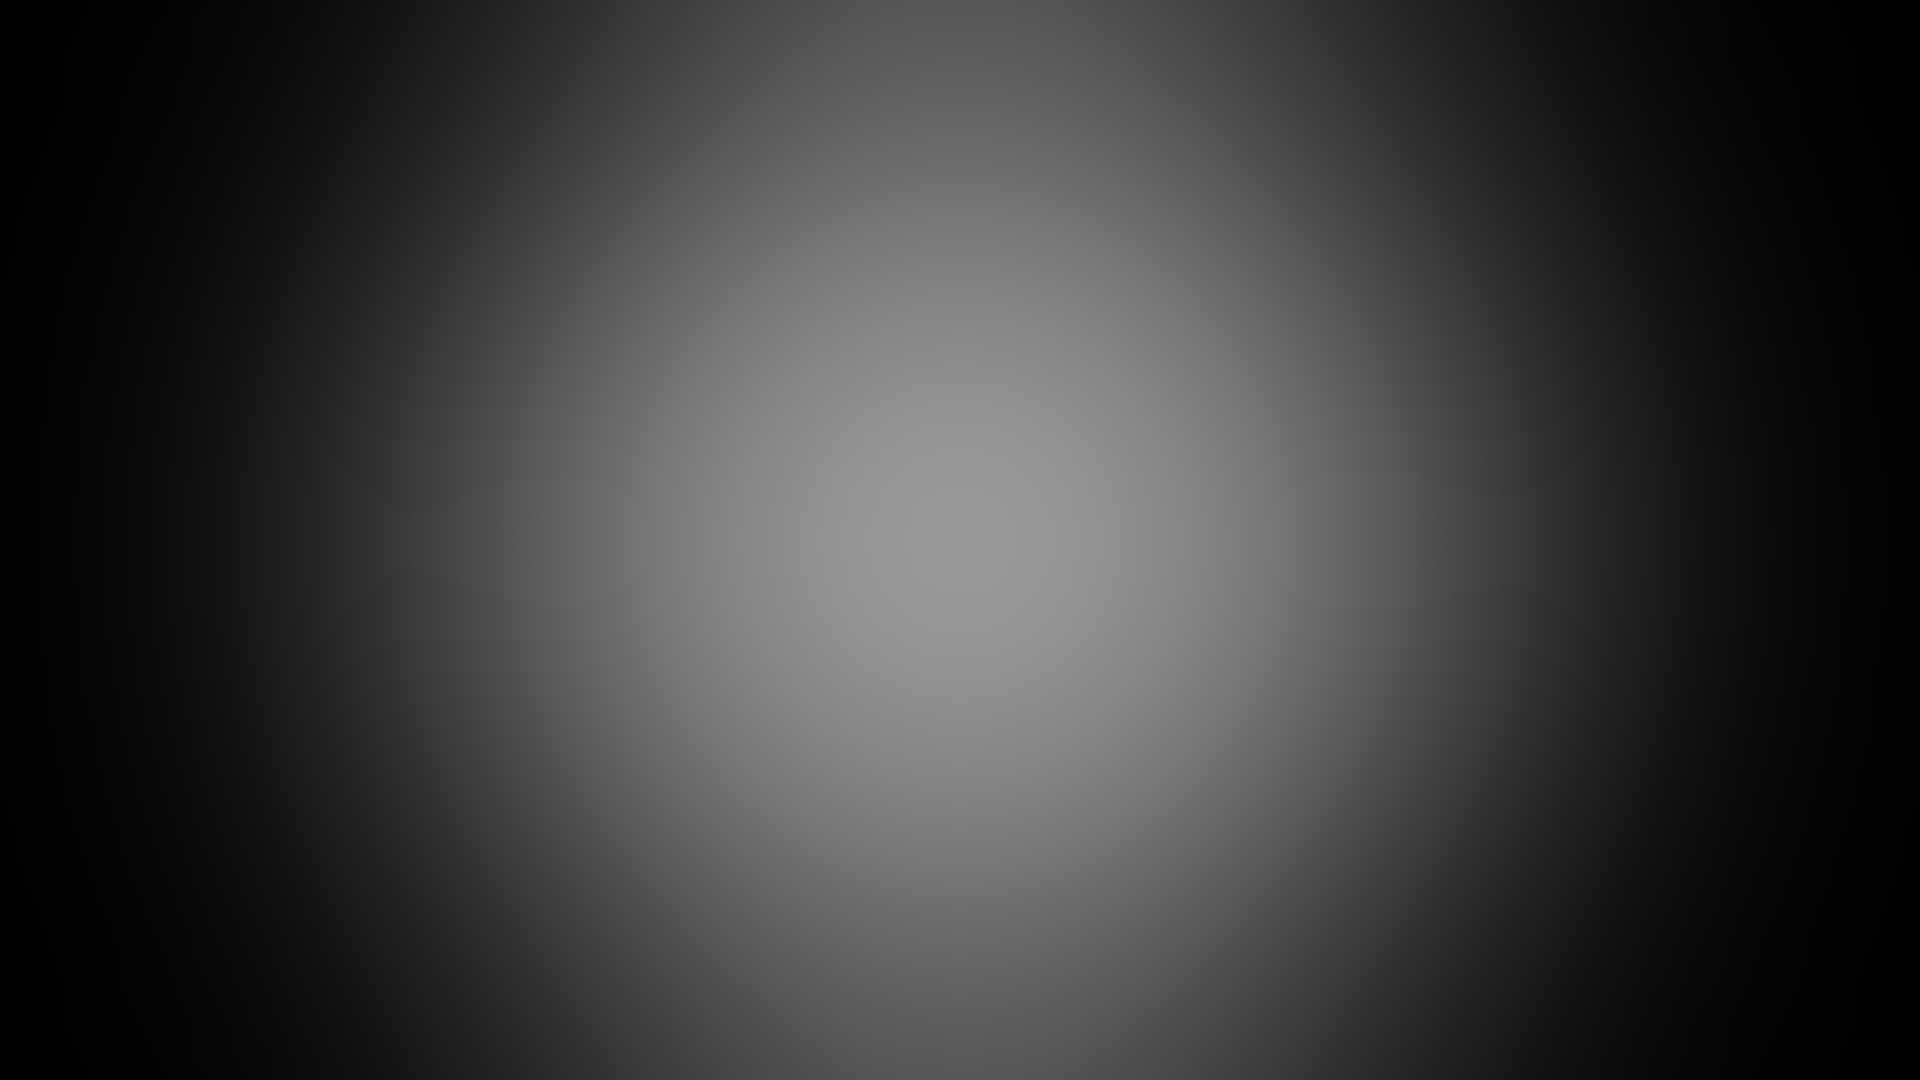
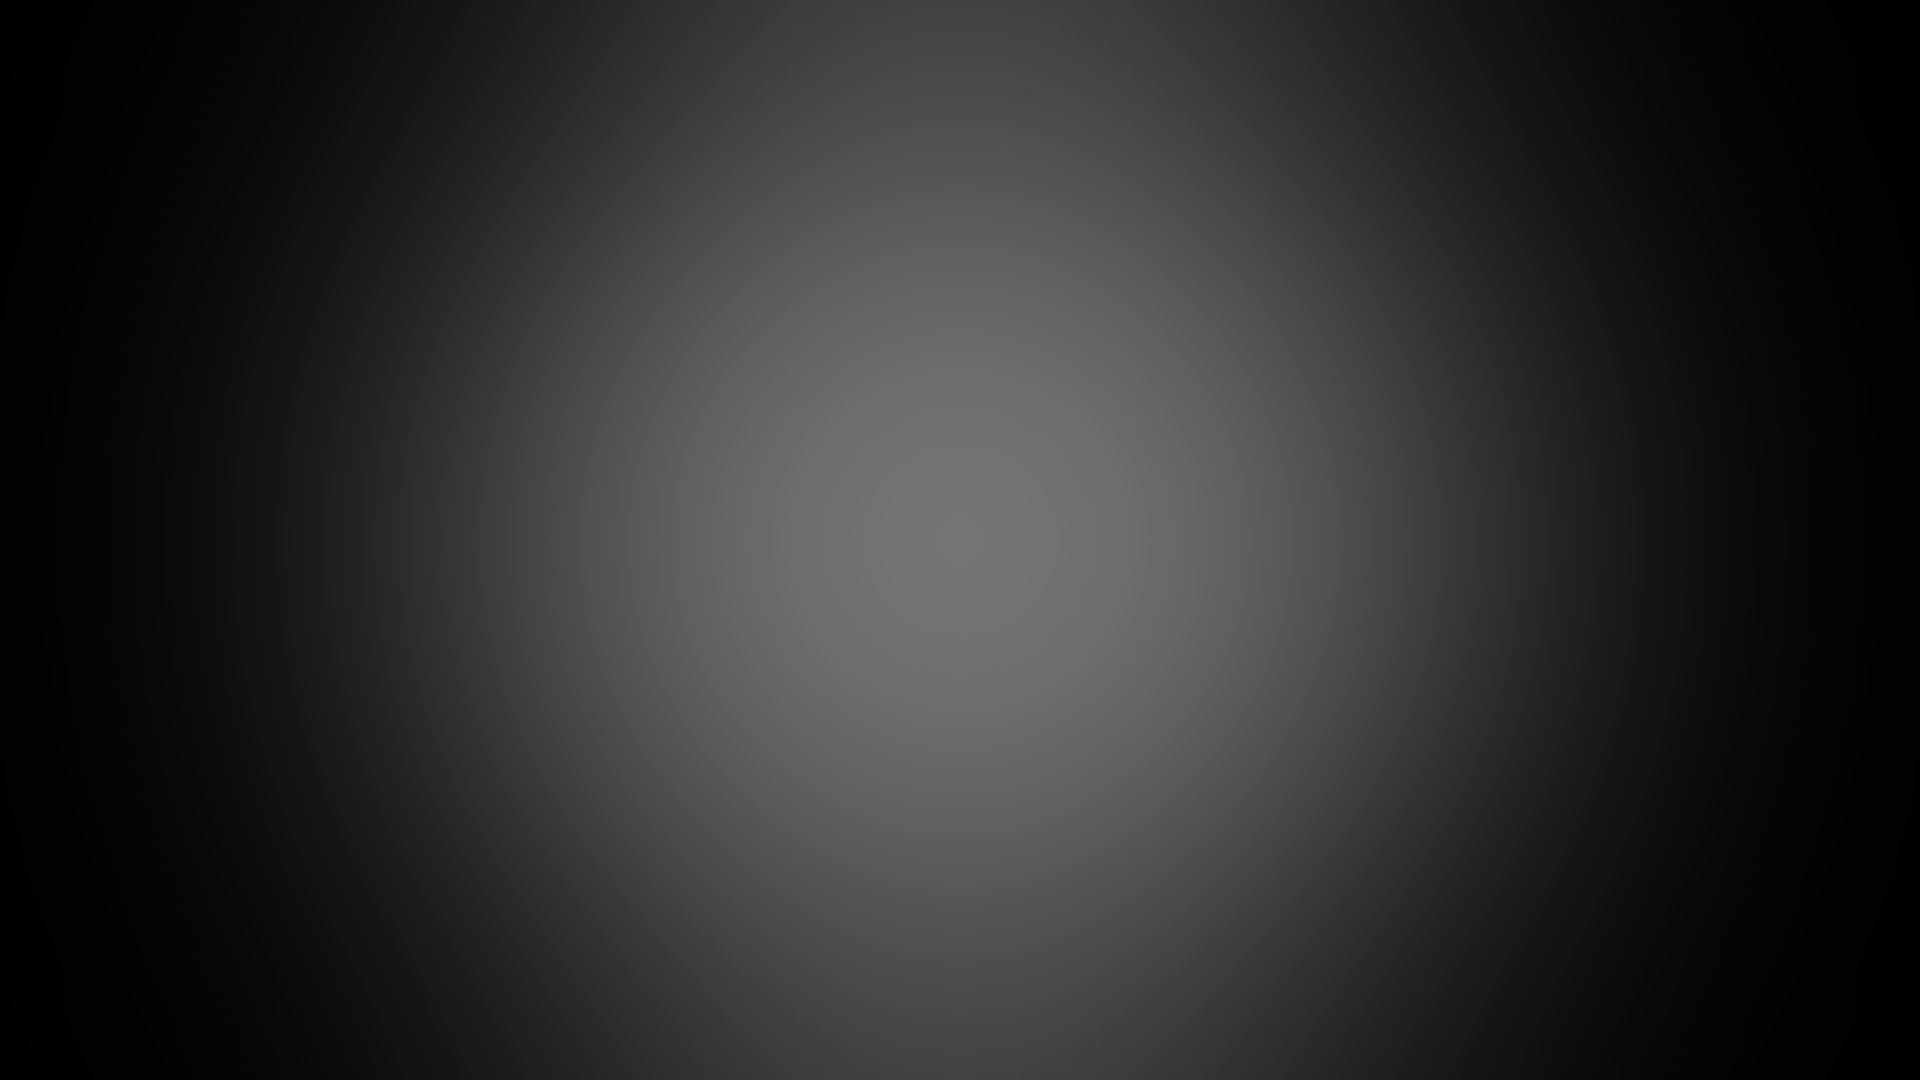
Add files via upload

Changed region(s): [[0.2812, 0.1222, 0.7188, 0.8861]]

diff --git a/styles.css b/styles.css
@@ -28,3 +28,27 @@ body{font-family:Inter,Arial,sans-serif;background:var(--cream);color:var(--ink)
 .cta iframe{width:100%;max-width:650px;height:560px;border:none;margin-top:16px;background:#fff;border-radius:12px;box-shadow:0 8px 24px rgba(0,0,0,.25)}
 .footer{text-align:center;padding:28px 20px;background:#1c1a16;color:#aaa;font-size:14px}.footer a{color:#ddd}
 @media (max-width:900px){.hero{min-height:92vh}.hero .hero-badges img{width:58px}.hero .bell{width:min(54vw,260px)}}
+
+/* === Contrast & blending polish === */
+.hero .inner{position:relative}
+.hero .inner::before{
+  content:""; position:absolute; left:50%; top:0; transform:translateX(-50%);
+  width:min(90vw,1000px); height:220px; z-index:-1;
+  background:radial-gradient(ellipse at center, rgba(0,0,0,0.55) 0%, rgba(0,0,0,0.85) 65%, rgba(0,0,0,0) 80%);
+  filter:blur(12px);
+}
+.bell-wrap{ position:relative; display:inline-block; margin-top:34px; }
+.bell-wrap::before{
+  content:""; position:absolute; left:50%; top:0; transform:translate(-50%, -18%);
+  width:220%; height:160%;
+  background:radial-gradient(circle at 50% 40%, rgba(255,255,220,0.15) 0%, rgba(255,250,230,0.04) 30%, rgba(0,0,0,0) 70%);
+  pointer-events:none;
+}
+.bell-wrap::after{
+  content:""; position:absolute; left:50%; bottom:-8px; transform:translateX(-50%);
+  width:140%; height:18px; border-radius:50%;
+  background:radial-gradient(ellipse at center, rgba(0,0,0,0.45) 0%, rgba(0,0,0,0) 70%);
+  filter:blur(2px);
+}
+.hero .bell{ display:block; margin:0 auto; width:min(15.6vw,216px); filter:drop-shadow(0 16px 30px rgba(0,0,0,.55)); }
+.hero .hero-badges img{ content:url("usa-badge-contrast.png"); }

diff --git a/index.html b/index.html
@@ -24,7 +24,7 @@
     </div>
     <p class="tag">A guardian for the road ahead.</p>
     <a href="#preorder" class="btn">Secure Your Bell Now — Don’t Let Road Gremlins Win!</a>
-    <img src="bell.png" class="bell" alt="Journey Bell">
+    <div class="bell-wrap"><img src="bell.png" class="bell" alt="Journey Bell"></div>
   </div>
 </section>
 <section id="story" class="story section">
